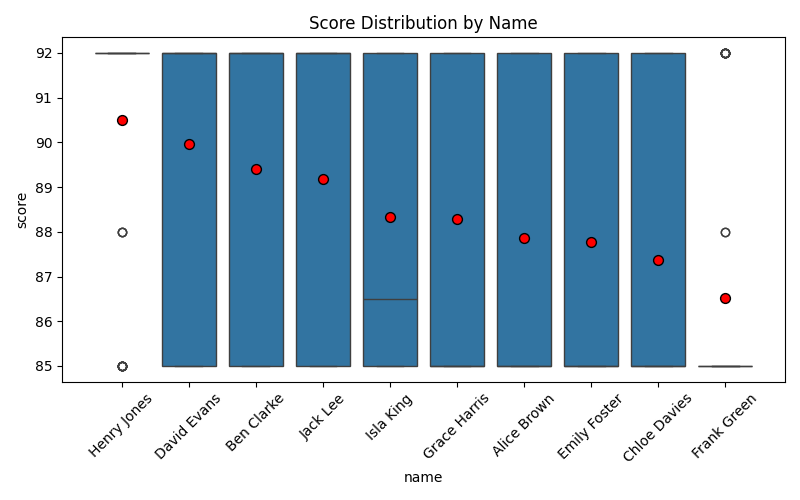
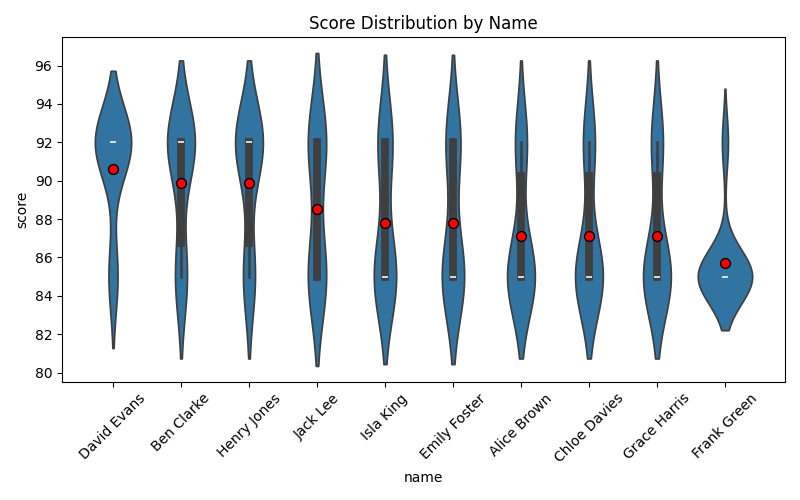
adding violin plots

diff --git a/main.py b/main.py
@@ -21,7 +21,7 @@ def plot_and_save_boxplots(df, variables, output_dir="plots"):
             order = means.index
 
             plt.figure(figsize=(8, 5))
-            sns.boxplot(x=var, y="score", data=df, order=order)
+            sns.violinplot(x=var, y="score", data=df, order=order)
 
             # Add red dots for means
             for i, cat in enumerate(order):
@@ -45,14 +45,14 @@ def main():
     model = Model()
 
     print("Testing Model...")
-    output = model.predict("Say 'it works' and nothing else.")
+    output = model.predict("Say 'ready' and nothing else.")
     print(output)
 
     records = []
     score_pattern = re.compile(r"(\d{1,3})/100")
 
-    temperature = 1.0
-    n_runs = 5
+    temperature = 0
+    n_runs = 1
 
     for cv in tqdm(cvs):
         metadata = cv["metadata"]
